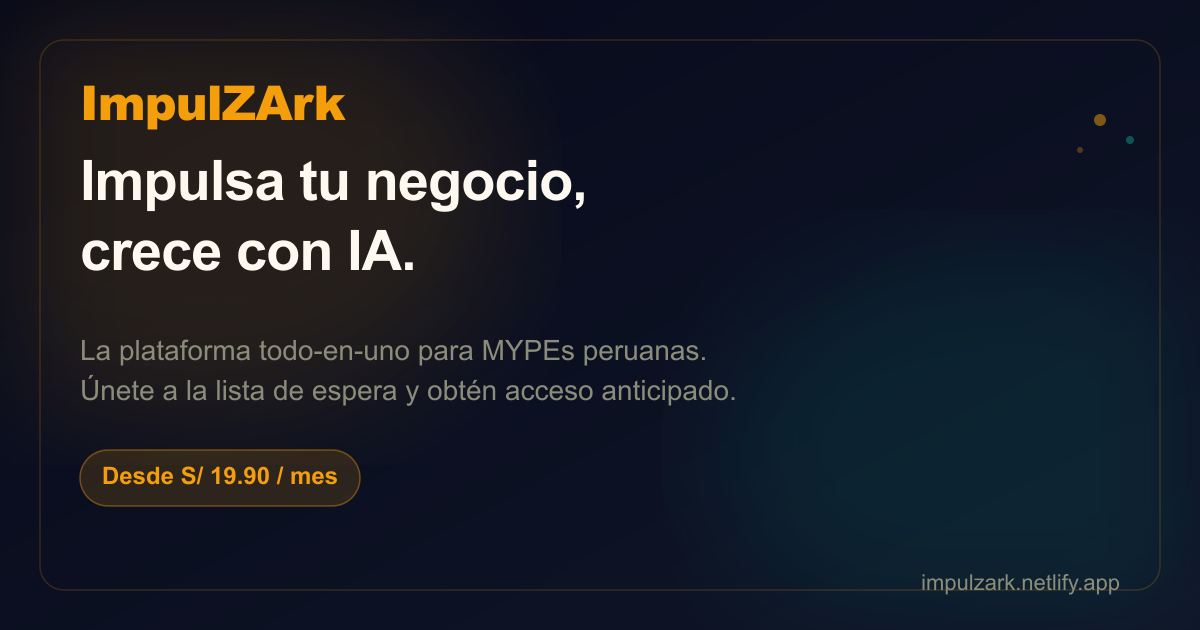
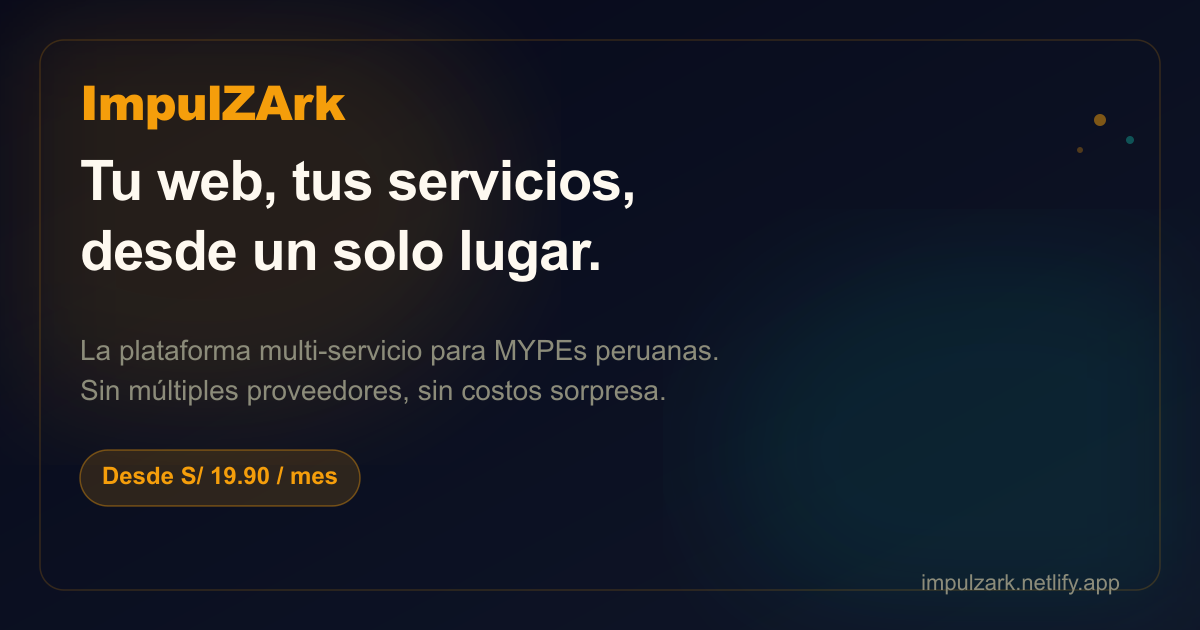
fix: correct product description in SEO and og-image (remove IA claim)

diff --git a/index.html b/index.html
@@ -4,27 +4,27 @@
   <meta charset="UTF-8">
   <meta name="viewport" content="width=device-width,initial-scale=1,viewport-fit=cover">
   <title>ImpulZArk · Lista de espera — Plataforma para MYPEs peruanas</title>
-  <meta name="description" content="ImpulZArk impulsa tu negocio con IA. La plataforma todo-en-uno para MYPEs peruanas. Únete a la lista de espera y obtén acceso anticipado desde S/ 19.90 / mes.">
+  <meta name="description" content="ImpulZArk es la plataforma multi-servicio para MYPEs peruanas. Gestiona tu web, tus servicios y tus clientes desde un solo lugar, sin múltiples proveedores. Lista de espera desde S/ 19.90 / mes.">
   <link rel="canonical" href="https://impulzark.netlify.app/">
 
   <!-- Open Graph — WhatsApp, LinkedIn, Facebook -->
   <meta property="og:type"        content="website">
   <meta property="og:url"         content="https://impulzark.netlify.app/">
-  <meta property="og:title"       content="ImpulZArk · Impulsa tu negocio con IA">
-  <meta property="og:description" content="La plataforma todo-en-uno para MYPEs peruanas. Únete a la lista de espera y obtén acceso anticipado desde S/ 19.90 / mes.">
+  <meta property="og:title"       content="ImpulZArk · Tu web, desde un solo lugar">
+  <meta property="og:description" content="La plataforma multi-servicio para MYPEs peruanas. Gestiona tu web, tus servicios y tus clientes desde un solo lugar. Únete a la lista de espera desde S/ 19.90 / mes.">
   <meta property="og:image"       content="https://impulzark.netlify.app/og-image.png">
   <meta property="og:image:width"  content="1200">
   <meta property="og:image:height" content="630">
-  <meta property="og:image:alt"   content="ImpulZArk — Impulsa tu negocio, crece con IA">
+  <meta property="og:image:alt"   content="ImpulZArk — Tu web, tus servicios, desde un solo lugar">
   <meta property="og:locale"      content="es_PE">
   <meta property="og:site_name"   content="ImpulZArk">
 
   <!-- Twitter Card -->
   <meta name="twitter:card"        content="summary_large_image">
-  <meta name="twitter:title"       content="ImpulZArk · Impulsa tu negocio con IA">
-  <meta name="twitter:description" content="La plataforma todo-en-uno para MYPEs peruanas. Únete a la lista de espera desde S/ 19.90 / mes.">
+  <meta name="twitter:title"       content="ImpulZArk · Tu web, desde un solo lugar">
+  <meta name="twitter:description" content="La plataforma multi-servicio para MYPEs peruanas. Gestiona tu web y tus servicios desde un solo lugar. Lista de espera desde S/ 19.90 / mes.">
   <meta name="twitter:image"       content="https://impulzark.netlify.app/og-image.png">
-  <meta name="twitter:image:alt"   content="ImpulZArk — Impulsa tu negocio, crece con IA">
+  <meta name="twitter:image:alt"   content="ImpulZArk — Tu web, tus servicios, desde un solo lugar">
 
   <!-- Google Fonts: Syne (headings) + Plus Jakarta Sans (body) — OFL, libre -->
   <link rel="preconnect" href="https://fonts.googleapis.com">
